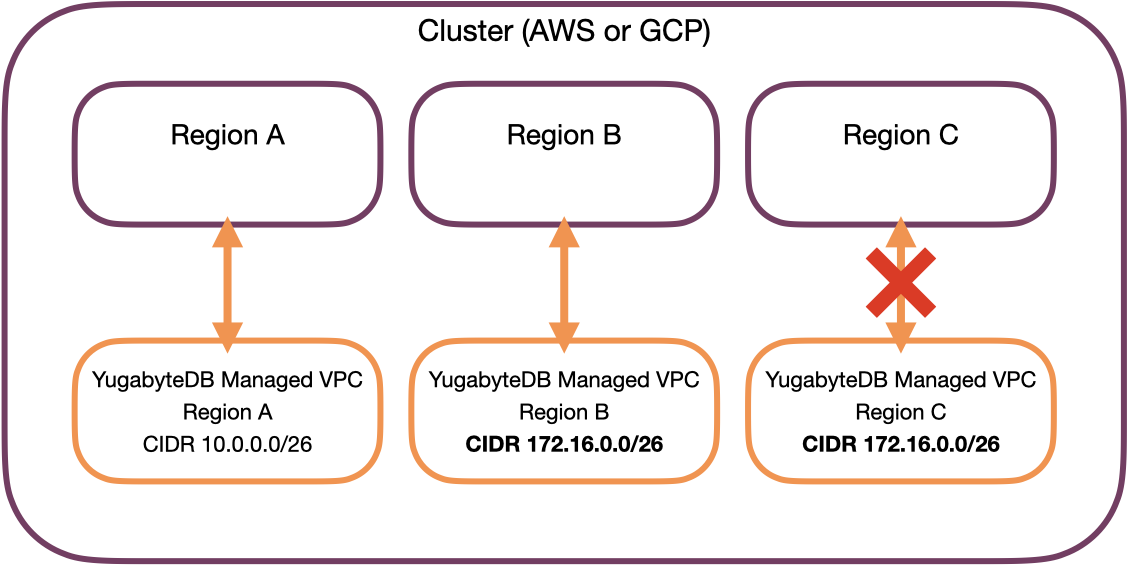
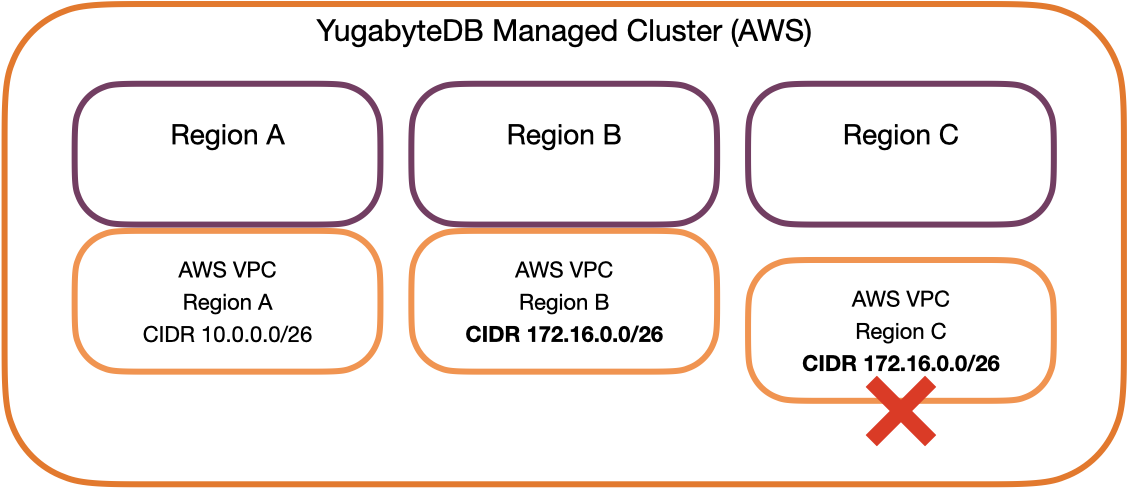
review comments

diff --git a/docs/content/preview/yugabyte-cloud/cloud-basics/cloud-vpcs/cloud-vpc-intro.md b/docs/content/preview/yugabyte-cloud/cloud-basics/cloud-vpcs/cloud-vpc-intro.md
@@ -106,7 +106,7 @@ You can calculate ranges beforehand using [IP Address Guide's CIDR to IPv4 Conve
 Addresses have the following additional restrictions:
 
 - VPC addresses can overlap with other VPCs, but not in the following circumstances:
-  - You want to use the VPCs for the same cluster. For example, if you have two VPCs in different regions with overlapping addresses, you won't be able to use both for deploying a multi-region cluster.
+  - You want to use the VPCs for the same multi-region cluster in AWS. For example, if you have two VPCs in different regions with overlapping addresses, you won't be able to use both for deploying a multi-region cluster.
 
   ![VPCs in the same cluster can't overlap](/images/yb-cloud/managed-vpc-overlap-cluster.png)
 

diff --git a/docs/content/preview/yugabyte-cloud/cloud-basics/cloud-vpcs/cloud-add-vpc-aws.md b/docs/content/preview/yugabyte-cloud/cloud-basics/cloud-vpcs/cloud-add-vpc-aws.md
@@ -74,8 +74,6 @@ To create a VPC, do the following:
 
 YugabyteDB Managed adds the VPC to the VPCs list with a status of _Creating_. If successful, after a minute or two, the status will change to _Active_.
 
-The VPC's network name and project ID are automatically assigned. You'll need these details when configuring the peering in GCP.
-
 ## Deploy a cluster in the VPC
 
 You can deploy your cluster in a VPC any time after the VPC is created. You must deploy the cluster in the VPC; the VPC can't be changed after cluster creation.
